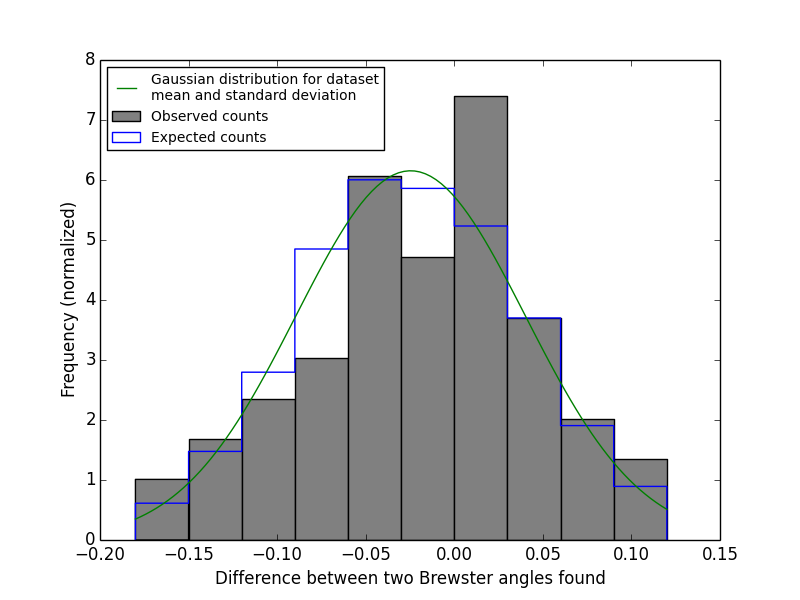
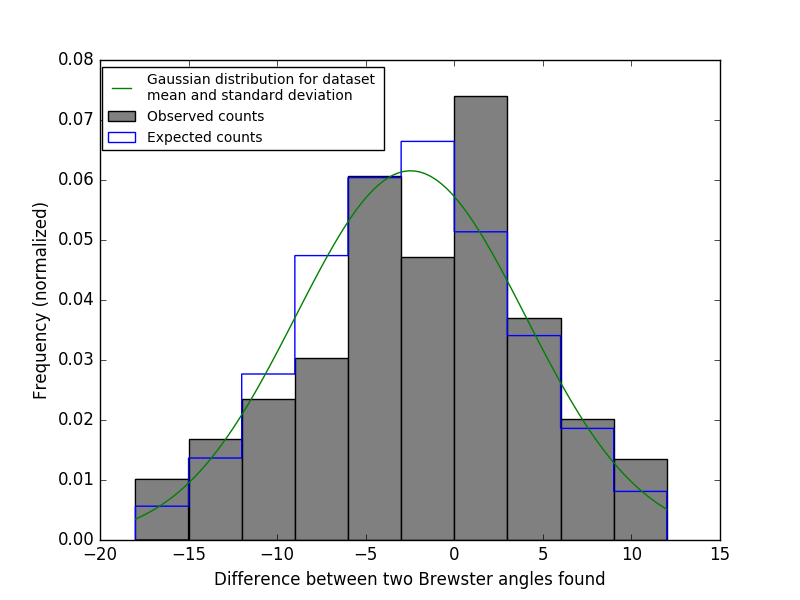
idk

diff --git a/Laser/brewsterAnalysis.py b/Laser/brewsterAnalysis.py
@@ -58,7 +58,7 @@ compiledData = numpy.column_stack((angleOnes,angleTwos))
 
 numpy.savetxt('./brewsterAngles/angleData.txt',compiledData)
 
-normedDiff = numpy.divide(numpy.subtract(angleOnes,angleTwos),100)
+normedDiff = numpy.subtract(angleOnes,angleTwos)
 numBins = numpy.ceil(numpy.sqrt(len(normedDiff)))
 
 normx = numpy.linspace(min(normedDiff),max(normedDiff),100)

diff --git a/Laser/importLaserData.py b/Laser/importLaserData.py
@@ -34,7 +34,7 @@ plt.ylabel('Photoresistor reading value returned from Arduino',fontsize=12)
 plt.plot(x,nopolarizer6)
 plt.savefig('./polarizationCalibration.png')
 
-print(min(nopolarizer6))
+print(1-min(nopolarizer6)/(max(nopolarizer6)-min(nopolarizer6)))
 
 """
 for i in range(1,100):
